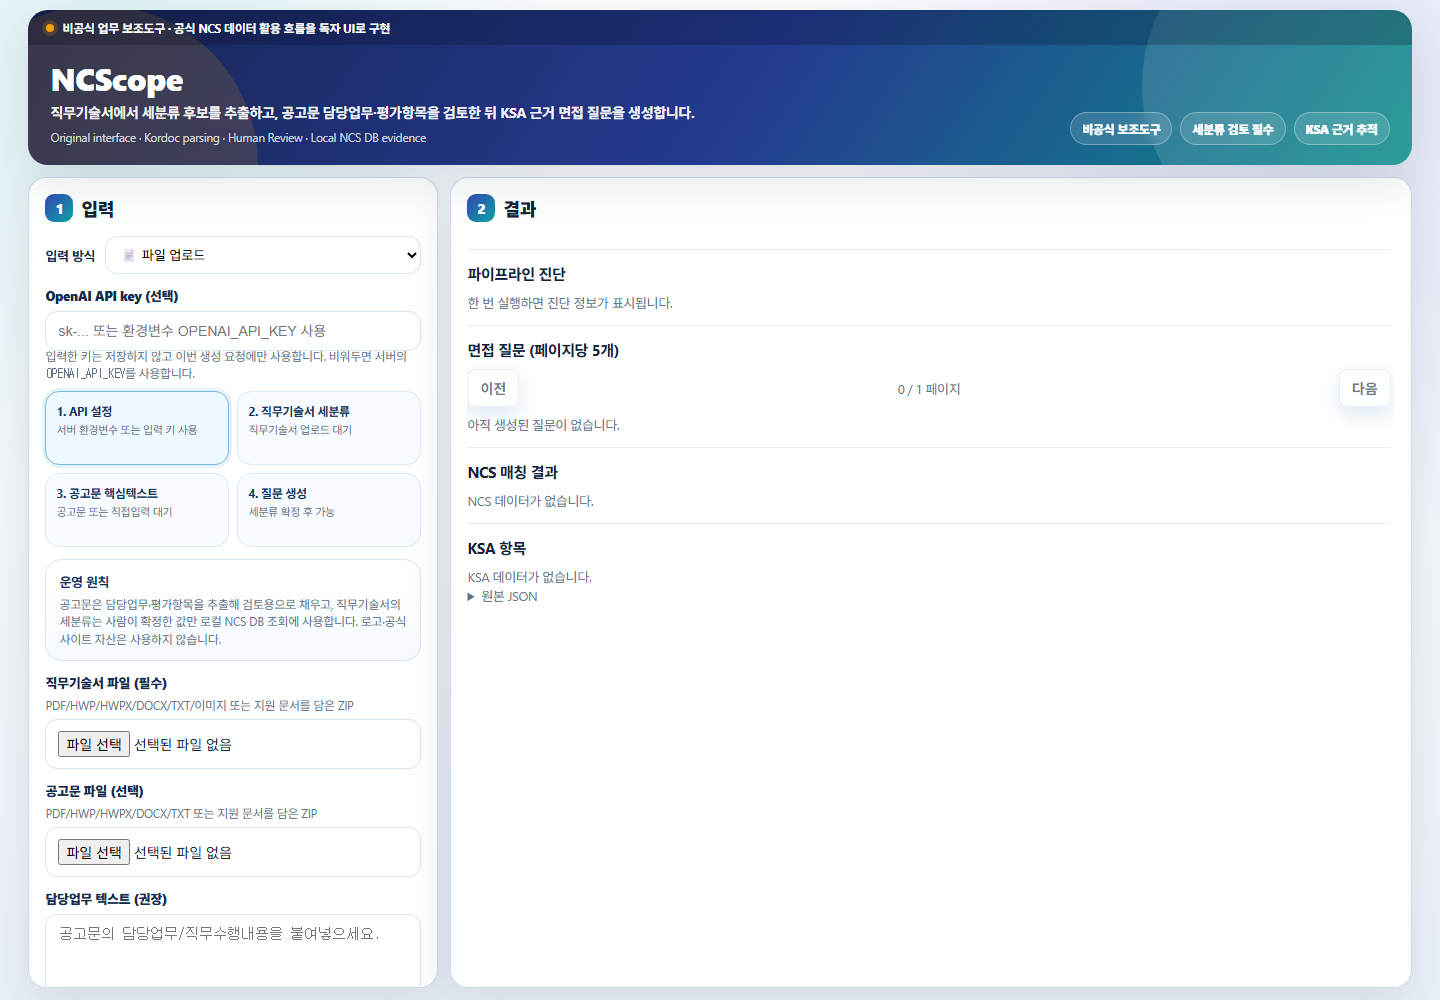
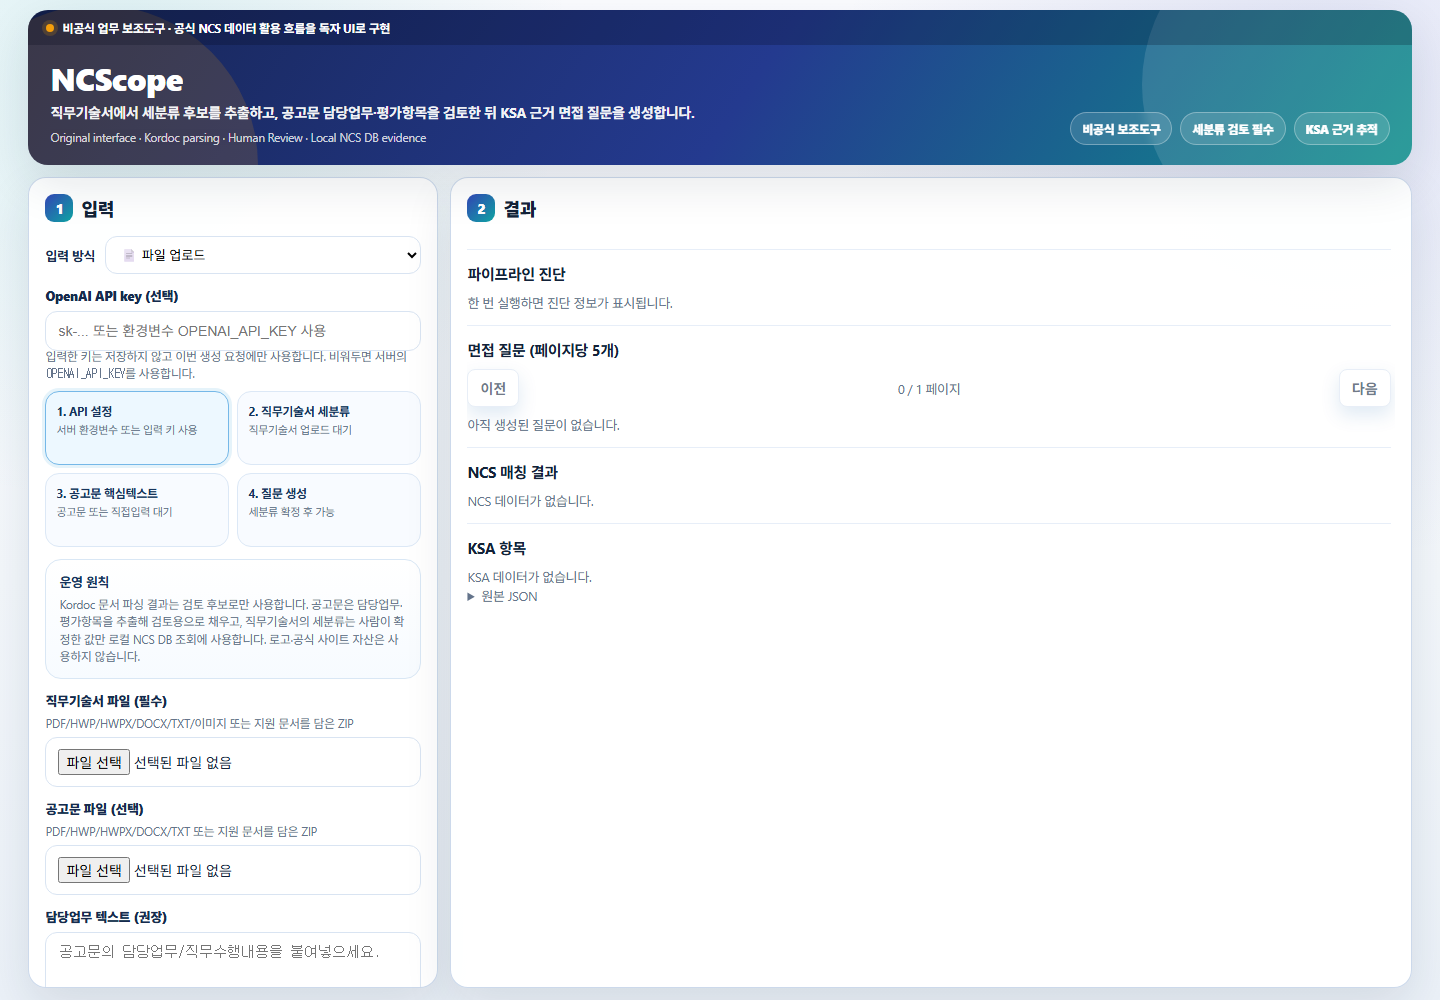
NCScope adds Kordoc attribution and review notice

Changed region(s): [[0.0312, 0.589, 0.2812, 0.961]]

diff --git a/app/static/index.html b/app/static/index.html
@@ -195,7 +195,7 @@
 
         <div class="guardrail-box">
           <strong>운영 원칙</strong>
-          <span>공고문은 담당업무·평가항목을 추출해 검토용으로 채우고, 직무기술서의 세분류는 사람이 확정한 값만 로컬 NCS DB 조회에 사용합니다. 로고·공식 사이트 자산은 사용하지 않습니다.</span>
+          <span>Kordoc 문서 파싱 결과는 검토 후보로만 사용합니다. 공고문은 담당업무·평가항목을 추출해 검토용으로 채우고, 직무기술서의 세분류는 사람이 확정한 값만 로컬 NCS DB 조회에 사용합니다. 로고·공식 사이트 자산은 사용하지 않습니다.</span>
         </div>
 
         <div id="uploadBlock">

diff --git a/THIRD_PARTY_NOTICES.md b/THIRD_PARTY_NOTICES.md
@@ -1,0 +1,21 @@
+# Third Party Notices
+
+NCScope는 외부 오픈소스와 API를 조합해 동작합니다. 이 문서는 사용자가 특히 확인해야 할 제3자 구성요소를 정리합니다.
+
+## Kordoc
+
+- 프로젝트: [chrisryugj/kordoc](https://github.com/chrisryugj/kordoc)
+- 라이선스: [MIT License](https://github.com/chrisryugj/kordoc/blob/main/LICENSE)
+- NCScope에서의 역할: 직무기술서와 공고문 파일의 본문, 표, 메타데이터를 파싱해 사람 검토용 후보를 만듭니다.
+- 연동 위치: `package.json`의 npm dependency와 `scripts/kordoc_parse.mjs`
+- 검토 원칙: Kordoc 결과는 NCS 세분류나 면접 질문의 최종 확정값이 아닙니다. NCScope는 사람이 세분류를 검토·확정한 뒤에만 로컬 NCS DB 조회와 질문 생성을 진행합니다.
+
+NCScope 저장소는 Kordoc 소스 저장소가 아니며, Kordoc의 권리와 라이선스는 해당 프로젝트의 고지를 따릅니다.
+
+## OpenAI API
+
+NCScope는 사용자가 제공한 OpenAI API key 또는 서버 환경변수 `OPENAI_API_KEY`를 사용해 구조화 면접 질문 초안을 생성할 수 있습니다. API key와 업로드 문서 처리 기준은 [`SECURITY.md`](SECURITY.md)를 확인하세요.
+
+## 기타 의존성
+
+Python과 Node.js 의존성은 각각 [`requirements.txt`](requirements.txt), [`package.json`](package.json), [`package-lock.json`](package-lock.json)에 명시되어 있습니다. 운영 배포 전 각 기관의 오픈소스 사용 기준과 보안 기준에 따라 의존성 검토를 수행해야 합니다.

diff --git a/SECURITY.md b/SECURITY.md
@@ -11,6 +11,7 @@
 ## 업로드 문서
 
 - 직무기술서와 공고문에 개인정보 또는 민감정보가 포함될 수 있으므로, 운영 전 기관 내부 데이터 처리 기준을 확인해야 합니다.
+- Kordoc 파싱 결과는 검토 후보로만 사용합니다. 세분류와 공고문 핵심 텍스트는 담당자가 검토·확정해야 하며, 자동 추출값을 최종 판단으로 사용하지 않습니다.
 - ZIP 업로드는 암호화 멤버를 파싱하지 않고 오류/경고로 처리합니다.
 - 앱 저장소에는 업로드 원본, ALIO 다운로드 원본, 로컬 DB, serving DB를 포함하지 않습니다.
 